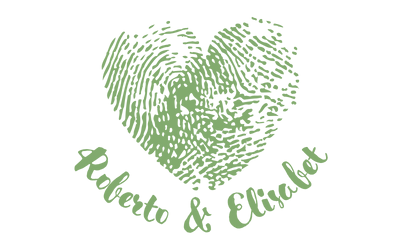
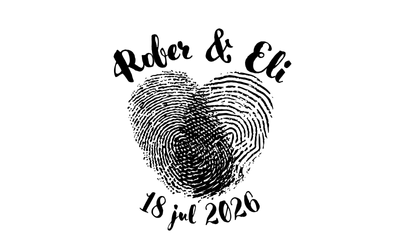
add github

Changed region(s): [[0.18, 0.056, 0.84, 0.952]]

diff --git a/www/index.html b/www/index.html
@@ -4,7 +4,7 @@
 <head>
   <meta charset="UTF-8">
   <meta name="viewport" content="width=device-width, initial-scale=1.0">
-  <title>Boda de Roberto y Elisabet</title>
+  <title>Boda de Rober y Eli</title>
   <link rel="icon" href="images/icon.png" type="image/png">
   <link rel="canonical" href="https://www.roberyeli.es/" />
 
